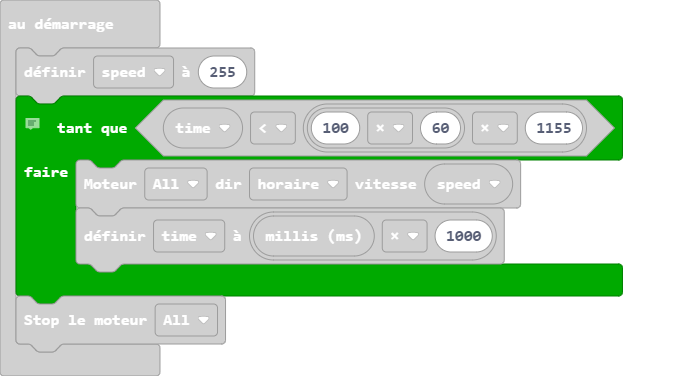
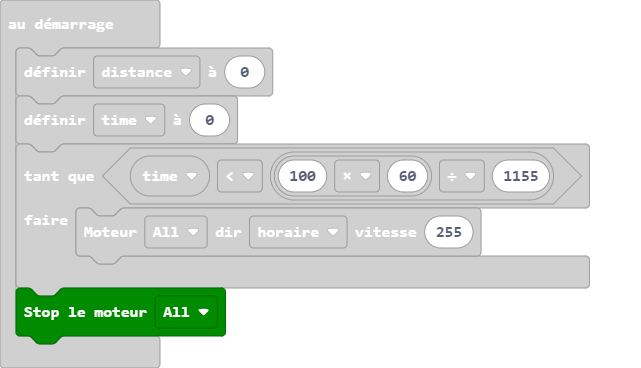
Correction d'erreur

diff --git a/main.ts b/main.ts
@@ -3,7 +3,7 @@ let time = 0
 while (time < 100 * 60 / 1155) {
     maqueen.motorRun(maqueen.Motors.All, maqueen.Dir.CW, 255)
 }
-maqueen.motorStop(maqueen.Motors.M1)
+maqueen.motorStop(maqueen.Motors.All)
 basic.forever(function () {
     time = control.millis() * 1000
 })
